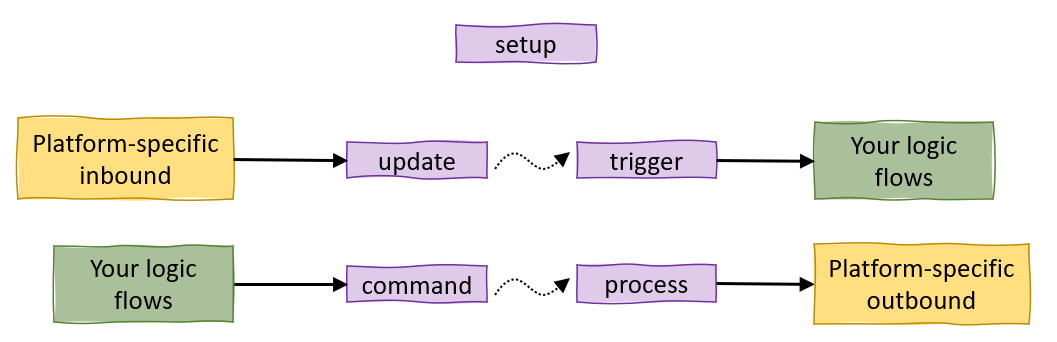
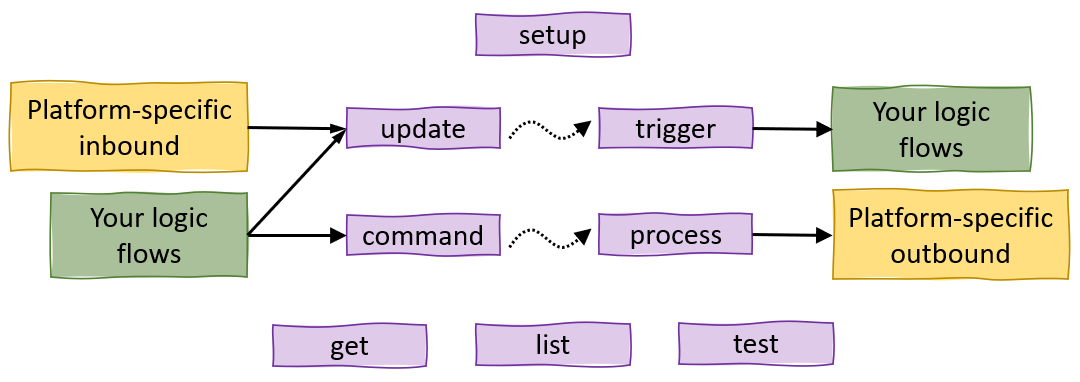
Docs + meta update

diff --git a/README.md b/README.md
@@ -2,11 +2,16 @@
 
 A set of [Node-RED](https://github.com/node-red/node-red) nodes that uses an agnostic state management system to keep IOT device states and provide a uniform control system.
 
+[![GitHub release](https://img.shields.io/github/release/hufftheweevil/node-red-contrib-things.svg?style=flat-square)](https://github.com/hufftheweevil/node-red-contrib-things/releases) [![NPM Version](https://img.shields.io/npm/v/node-red-contrib-things.svg?style=flat-square)](https://www.npmjs.com/package/node-red-contrib-things) [![GitHub last commit](https://img.shields.io/github/last-commit/hufftheweevil/node-red-contrib-things.svg?style=flat-square)](https://github.com/hufftheweevil/node-red-contrib-things/commits/master) [![Github All Releases](https://img.shields.io/npm/dw/node-red-contrib-things)](https://github.com/hufftheweevil/node-red-contrib-things/releases)
+[![Node version](https://img.shields.io/node/v/node-red-contrib-things.svg?style=flat-square)](http://nodejs.org/download/) [![GitHub repo size in bytes](https://img.shields.io/github/repo-size/hufftheweevil/node-red-contrib-things.svg?style=flat-square)](https://github.com/hufftheweevil/node-red-contrib-things) [![npm](https://img.shields.io/npm/l/node-red-contrib-things.svg?style=flat-square)](https://github.com/hufftheweevil/node-red-contrib-things/blob/master/LICENSE)
+
 ### Purpose
 
 First, what these nodes do **not** do: These nodes have no connection outside of Node-RED. They will not directly receive any data, and they do not directly send any data.
 
 This is an internal system that will help manage your Node-RED project better, minimizing overhead and simplying flows. You provide the outside connections, wire them up correctly to these nodes, and you will have a super charged version of Node-RED. The system is designed to be as minimalistic as possible, while allowing for just about any use case.
+
+### Usage
 
 The core concept is to reduce all IOT devices into one common "langauge". With that, flows are more sensible and changes are easier. To facilitate the abstractness of this library, it is broken into four main segments/nodes.
 
@@ -15,7 +20,11 @@ The core concept is to reduce all IOT devices into one common "langauge". With t
 - Your logic may link into a **_command_** node, which will route to...
 - The **_process_** node, which will link back to the various platforms.
 
-The exact uses of these nodes can be customized to fit your needs.
+Exact usage can vary depending on your use-case. However, this system was designed with the following general concept in mind. This is an over simplified representation. The two connections in the middle represent some of the inner-workings of this system.
+
+![General usage overview](images/usage-overview.png)
+
+The **_get_**, **_list_**, and **_test_** nodes are to help assist in your flows.
 
 ### Inspiration
 
@@ -56,13 +65,13 @@ There are 8 nodes included: _setup_, _update_, _trigger_, _get_, _test_, _list_,
 
 ### setup
 
-Start with the _setup_ node; It is required for all things. Use a different _setup_ node for each `type` that you have. There are no inputs or outputs. All things listed will be initialized when the flows are deployed.
+All things must be created using this node. Use a different _setup_ node for each `type` that you have. It is up to you how you organize your `types`. But it is recommended to base them on the platforms you use - or in other words, based on how the devices connect in to and out of Node-RED. There are no inputs or outputs for this node. All things listed will be initialized when the flows are deployed.
 
 ##### Properties
 
 | Property        | Info                                                                                                                                                                                                                                                                                                                                                                                  |
 | --------------- | ------------------------------------------------------------------------------------------------------------------------------------------------------------------------------------------------------------------------------------------------------------------------------------------------------------------------------------------------------------------------------------- |
-| Thing Type      | A type indentifier decided by you. They must be used consistently throughout your flows, including case.                                                                                                                                                                                                                                                                              |
+| Thing Type      | A type/platform identifier chosen by you. They must be used consistently throughout your flows, and they are case sensitive.                                                                                                                                                                                                                                                          |
 | Things          | Each thing is added using up to 5 parameters: Name, ID, Props, State, Proxy. All fields are equivilant to the properties defined above. Only Name is required. **Note**: If state is provided, it will only be used if the thing does not already exist (i.e. on Node-RED system startup, or a newly added thing). On re-deployment of flows, the last known state will be preserved. |
 | Status Function | The body of a function that will set the status of any trigger nodes for this thing. The function receives `props` and `state` variables. It should return an object with signature `{text, fill, shape}`, all optional. If the function returns `null`, a red ring will be used with the text "Unknown". If not set, defaults to `state => ({text: JSON.stringify(state)})`          |
 
@@ -196,12 +205,6 @@ A trigger-type node that will listen for messages from _command_ nodes for a spe
 | `topic`   | _string_ | The thing ID. (Not the name)             |
 | `payload` | any      | The command, passed from a command node. |
 | `thing`   | _object_ | The entire thing object.                 |
-
-## Usage
-
-Exact usage can vary depending on your use-case. However, this system was designed with the following general concept in mind. This is an over simplified representation. The two connections down in the middle represent all of the inner-workings of this system.
-
-![General usage overview](images/usage-overview.png)
 
 ## Proxy System
 
